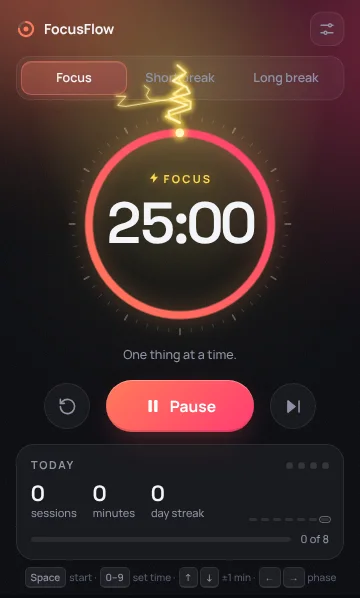
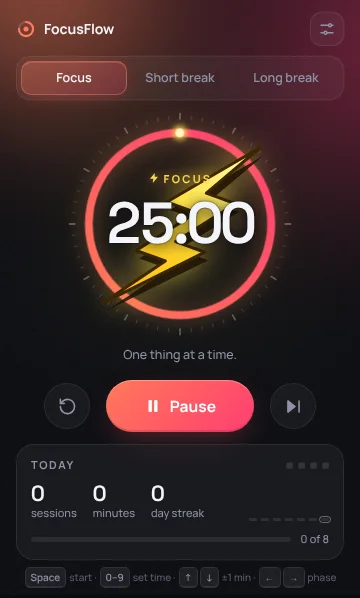
Replace spark lightning with a bold solid bolt that strikes across the dial

Changed region(s): [[0.2444, 0.0, 0.7639, 0.5117]]

diff --git a/extension/popup/popup.css b/extension/popup/popup.css
@@ -169,15 +169,22 @@ h2 { margin: 0; font-size: 16px; font-weight: 700; }
 :root { --volt: #ffd84d; --volt-hot: #fff6c2; --volt-glow: rgba(255, 210, 60, 0.55); }
 .blob.c { background: var(--volt); width: 180px; height: 180px; top: 120px; left: 90px; opacity: 0; filter: blur(80px); transition: opacity 1s; }
 body.charged .blob.c { opacity: 0.16; animation: drift 9s ease-in-out infinite alternate; }
-.flash { position: absolute; inset: 0; opacity: 0; background: radial-gradient(60% 45% at var(--fx, 50%) var(--fy, 30%), rgba(255, 226, 110, 0.38), transparent 70%); }
-.flash.on { animation: flash 0.7s ease-out; }
-@keyframes flash { 0% { opacity: 0; } 8% { opacity: 1; } 18% { opacity: 0.25; } 28% { opacity: 0.85; } 100% { opacity: 0; } }
-
-.bolts { position: absolute; inset: -40px; width: calc(100% + 80px); height: calc(100% + 80px); pointer-events: none; overflow: visible; z-index: 2; }
-.bolts g { animation: zap 0.8s steps(1, end) forwards; }
-.bolts .glow { fill: none; stroke: var(--volt); stroke-width: 8; stroke-linecap: round; stroke-linejoin: round; opacity: 0.45; filter: blur(3px); }
-.bolts .core { fill: none; stroke: var(--volt-hot); stroke-width: 2.2; stroke-linecap: round; stroke-linejoin: round; filter: drop-shadow(0 0 3px var(--volt)); }
-@keyframes zap { 0% { opacity: 1; } 12% { opacity: 0.15; } 22% { opacity: 1; } 40% { opacity: 0.6; } 55% { opacity: 1; } 75% { opacity: 0.3; } 100% { opacity: 0; } }
+/* The bolt rests as a faint emblem behind the time and strikes to full brightness. */
+.bolt { position: absolute; left: 50%; top: 50%; width: 220px; height: 220px; margin: -110px 0 0 -110px; pointer-events: none; opacity: 0; transform: scale(0.9); transition: opacity 0.6s, transform 0.6s; overflow: visible; }
+.bolt-body { fill: url(#boltFill); stroke: #3a2600; stroke-width: 1.4; stroke-linejoin: round; }
+.bolt-shadow { fill: #1a1206; opacity: 0.85; }
+body.charged .bolt { opacity: 0.16; transform: none; filter: drop-shadow(0 0 10px var(--volt-glow)); }
+body.charged .bolt.strike { animation: strike 1.5s cubic-bezier(.2,.8,.2,1); }
+@keyframes strike {
+  0% { opacity: 0.16; clip-path: inset(0 0 100% 0); transform: scale(1.12); }
+  10% { opacity: 1; clip-path: inset(0 0 0 0); transform: scale(1.04); filter: drop-shadow(0 0 22px var(--volt)) brightness(1.25); }
+  16% { opacity: 0.55; }
+  22% { opacity: 1; transform: scale(1); }
+  55% { opacity: 1; filter: drop-shadow(0 0 14px var(--volt-glow)); }
+  100% { opacity: 0.16; clip-path: inset(0 0 0 0); }
+}
+body.charged .time { position: relative; z-index: 1; text-shadow: 0 2px 14px rgba(10, 11, 16, 0.85), 0 0 2px rgba(10, 11, 16, 0.9); }
+.dial-center { z-index: 1; }
 
 .zap-icon { width: 0; height: 12px; margin-right: 0; fill: var(--volt); vertical-align: -1px; filter: drop-shadow(0 0 4px var(--volt-glow)); transition: width 0.3s, margin 0.3s; }
 body.charged .zap-icon { width: 12px; margin-right: 4px; animation: buzz 2.6s infinite; }
@@ -189,10 +196,8 @@ body.charged .progress { animation: surge 2.8s ease-in-out infinite; }
 body.charged .head { fill: var(--volt-hot); }
 body.charged .head-glow { fill: var(--volt); opacity: 0.7; animation: spark 0.9s infinite; }
 @keyframes spark { 0%, 100% { r: 10; opacity: 0.7; } 30% { r: 14; opacity: 0.35; } 60% { r: 8; opacity: 0.8; } }
-body.charged.zapped .progress { filter: drop-shadow(0 0 18px var(--volt)) brightness(1.35); }
-body.charged.zapped .time { text-shadow: 0 0 18px var(--volt-glow); }
 
 @media (prefers-reduced-motion: reduce) {
-  .bolts, .flash { display: none; }
+  .bolt.strike { animation: none !important; }
   body.charged .progress, body.charged .head-glow, body.charged .zap-icon, .blob { animation: none; }
 }

diff --git a/extension/popup/popup.js b/extension/popup/popup.js
@@ -159,7 +159,7 @@ function streak() {
   return count;
 }
 
-// ---------- lightning: a charged look while a focus session is running ----------
+// ---------- charged focus: a bold lightning bolt strikes across the dial ----------
 const reducedMotion = matchMedia('(prefers-reduced-motion: reduce)').matches;
 let charged = false;
 let strikeTimer = null;
@@ -169,72 +169,20 @@ function setCharged(on) {
   charged = on;
   document.body.classList.toggle('charged', on);
   clearTimeout(strikeTimer);
-  if (on && !reducedMotion) {
-    strikeTimer = setTimeout(strikeLoop, 350); // a first strike right as focus starts
-  }
+  if (on && !reducedMotion) strikeTimer = setTimeout(strikeLoop, 250); // strike as focus starts
 }
 
 function strikeLoop() {
   if (!charged) return;
   strike();
-  if (Math.random() < 0.35) setTimeout(strike, 180 + Math.random() * 220); // occasional double strike
-  strikeTimer = setTimeout(strikeLoop, 3200 + Math.random() * 4500);
-}
-
-// Builds a jagged bolt from a point on the ring outward, with a small branch.
-function boltPoints(angle, r0, r1, segs, jitter) {
-  const pts = [];
-  for (let i = 0; i <= segs; i++) {
-    const t = i / segs;
-    const r = r0 + (r1 - r0) * t;
-    const off = i === 0 ? 0 : (Math.random() - 0.5) * jitter * (1 - t * 0.3);
-    const a = angle + off / r;
-    pts.push([130 + r * Math.cos(a), 130 + r * Math.sin(a)]);
-  }
-  return pts;
+  strikeTimer = setTimeout(strikeLoop, 5000 + Math.random() * 4000);
 }
 
 function strike() {
-  const svg = $('bolts');
-  const ns = 'http://www.w3.org/2000/svg';
-  // Mostly strike from the ring's moving head, sometimes from anywhere on the ring.
-  const frac = Math.min(1, remainingMs() / Math.max(totalMs(), 1));
-  const headAngle = (frac * 360 - 90) * (Math.PI / 180);
-  const angle = Math.random() < 0.6 ? headAngle : Math.random() * Math.PI * 2;
-
-  const main = boltPoints(angle, 112, 160 + Math.random() * 26, 8, 36);
-  const k = 2 + Math.floor(Math.random() * 3);
-  const [bx, by] = main[k];
-  const bAngle = Math.atan2(by - 130, bx - 130) + (Math.random() < 0.5 ? -0.35 : 0.35);
-  const branch = boltPoints(bAngle, Math.hypot(bx - 130, by - 130), 158, 4, 20);
-  branch[0] = [bx, by];
-
-  const g = document.createElementNS(ns, 'g');
-  for (const pts of [main, branch]) {
-    const d = 'M' + pts.map((p) => p.map((n) => n.toFixed(1)).join(' ')).join(' L');
-    for (const cls of ['glow', 'core']) {
-      const path = document.createElementNS(ns, 'path');
-      path.setAttribute('d', d);
-      path.setAttribute('class', cls);
-      if (pts === branch) path.style.strokeWidth = cls === 'core' ? '1' : '4';
-      g.appendChild(path);
-    }
-  }
-  svg.appendChild(g);
-  setTimeout(() => g.remove(), 850);
-
-  // Screen flash centred on the strike, and a quick surge on the ring.
-  const flash = $('flash');
-  const dial = document.querySelector('.dial').getBoundingClientRect();
-  const fx = dial.left + dial.width / 2 + Math.cos(angle) * dial.width * 0.55;
-  const fy = dial.top + dial.height / 2 + Math.sin(angle) * dial.height * 0.55;
-  flash.style.setProperty('--fx', `${(fx / innerWidth) * 100}%`);
-  flash.style.setProperty('--fy', `${(fy / innerHeight) * 100}%`);
-  flash.classList.remove('on');
-  void flash.offsetWidth;
-  flash.classList.add('on');
-  document.body.classList.add('zapped');
-  setTimeout(() => document.body.classList.remove('zapped'), 260);
+  const bolt = $('bolt');
+  bolt.classList.remove('strike');
+  void bolt.getBoundingClientRect(); // restart the animation
+  bolt.classList.add('strike');
 }
 
 // ---------- editable time ----------

diff --git a/site/index.html b/site/index.html
@@ -95,7 +95,7 @@
           </a>
           <a class="btn ghost" href="#install">Install guide</a>
         </div>
-        <p class="meta">Free and open source · No account · No tracking · v1.2.0</p>
+        <p class="meta">Free and open source · No account · No tracking · v1.2.1</p>
       </div>
       <div class="shots">
         <img src="popup-focus.webp" alt="FocusFlow popup during a focus session" />
@@ -120,7 +120,7 @@
       <div class="features">
         <div class="card"><div class="ic">⏱</div><h3>Reliable timer</h3><p>Runs in the background with <code>chrome.alarms</code>, even when the popup is closed.</p></div>
         <div class="card"><div class="ic">🔔</div><h3>Break reminders</h3><p>Desktop notifications with a one-click "Start break" button and a soft chime.</p></div>
-        <div class="card"><div class="ic">⚡</div><h3>Charged focus</h3><p>While you focus, yellow lightning strikes crackle around the ring. The toolbar badge counts down the minutes left.</p></div>
+        <div class="card"><div class="ic">⚡</div><h3>Charged focus</h3><p>While you focus, a bold yellow lightning bolt strikes across the dial. The toolbar badge counts down the minutes left.</p></div>
         <div class="card"><div class="ic">📈</div><h3>Daily stats</h3><p>Sessions, focus minutes, day streak, a 7-day chart and a daily goal.</p></div>
         <div class="card"><div class="ic">✏</div><h3>Set any time</h3><p>Click the clock and type <code>40</code> or <code>12:30</code>, or tap a preset. Works mid-session too.</p></div>
         <div class="card"><div class="ic">⌨</div><h3>Shortcuts</h3><p><code>Space</code> start/pause, digits set the time, <code>↑</code><code>↓</code> ±1 min, <code>←</code><code>→</code> switch phase, <code>Alt+Shift+P</code> from any tab.</p></div>

diff --git a/extension/popup/popup.html b/extension/popup/popup.html
@@ -6,7 +6,7 @@
   <link rel="stylesheet" href="popup.css" />
 </head>
 <body>
-  <div class="ambient" aria-hidden="true"><i class="blob a"></i><i class="blob b"></i><i class="blob c"></i><i class="flash" id="flash"></i><i class="grain"></i></div>
+  <div class="ambient" aria-hidden="true"><i class="blob a"></i><i class="blob b"></i><i class="blob c"></i><i class="grain"></i></div>
 
   <main id="app" data-phase="focus">
     <header class="top">
@@ -41,7 +41,19 @@
           <g id="head"><circle class="head-glow" cx="234" cy="130" r="10" /><circle class="head" cx="234" cy="130" r="5" /></g>
         </svg>
 
-        <svg class="bolts" id="bolts" viewBox="-40 -40 340 340" aria-hidden="true"></svg>
+        <svg class="bolt" id="bolt" viewBox="0 0 100 100" aria-hidden="true">
+          <defs>
+            <linearGradient id="boltFill" x1="0" y1="0" x2="0" y2="1">
+              <stop offset="0" stop-color="#fff6b0" />
+              <stop offset="0.45" stop-color="#ffd83a" />
+              <stop offset="1" stop-color="#ffb000" />
+            </linearGradient>
+          </defs>
+          <g transform="rotate(28 50 50)">
+            <polygon class="bolt-shadow" points="66,2 40,44 54,42 38,70 52,68 36,98 66,56 52,58 68,30 54,32" transform="translate(3 2.5)" />
+            <polygon class="bolt-body" points="66,2 40,44 54,42 38,70 52,68 36,98 66,56 52,58 68,30 54,32" />
+          </g>
+        </svg>
 
         <div class="dial-center">
           <span class="phase-label"><svg class="zap-icon" viewBox="0 0 24 24" aria-hidden="true"><path d="M13.5 2 4 13.5h6.5L9.5 22 20 9.5h-6.5z"/></svg><span id="phaseLabel">Focus</span></span>

diff --git a/README.md b/README.md
@@ -9,7 +9,7 @@ A calm **Pomodoro timer** Chrome extension (Manifest V3). Focus for 25 minutes, 
 ## Features
 
 - Focus, short break and long break phases with an animated progress ring
-- Charged focus mode: yellow lightning strikes crackle around the ring while a focus session runs (respects reduced-motion)
+- Charged focus mode: a bold yellow lightning bolt strikes across the dial every few seconds while a focus session runs (respects reduced-motion)
 - Runs in the background with `chrome.alarms`, so it keeps going when the popup is closed
 - Desktop notifications with a "Start break / Start focus" button, plus a synthesized chime (offscreen document)
 - Toolbar badge showing minutes left, colored by phase
